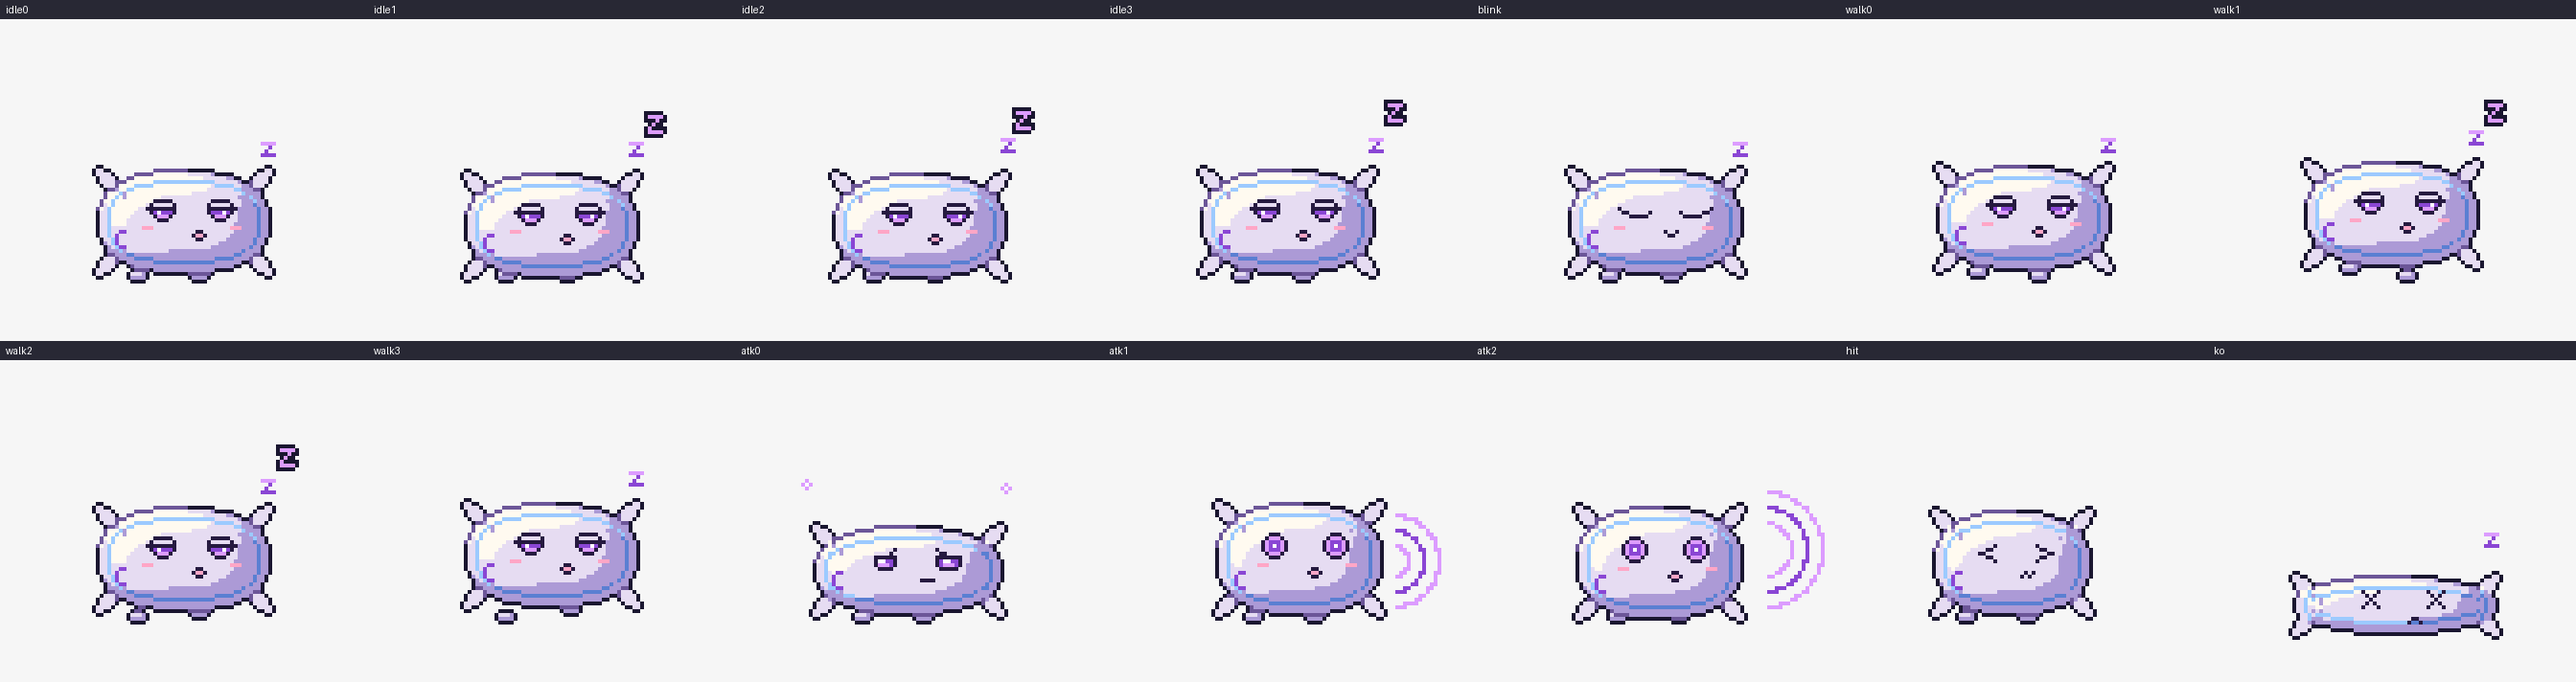
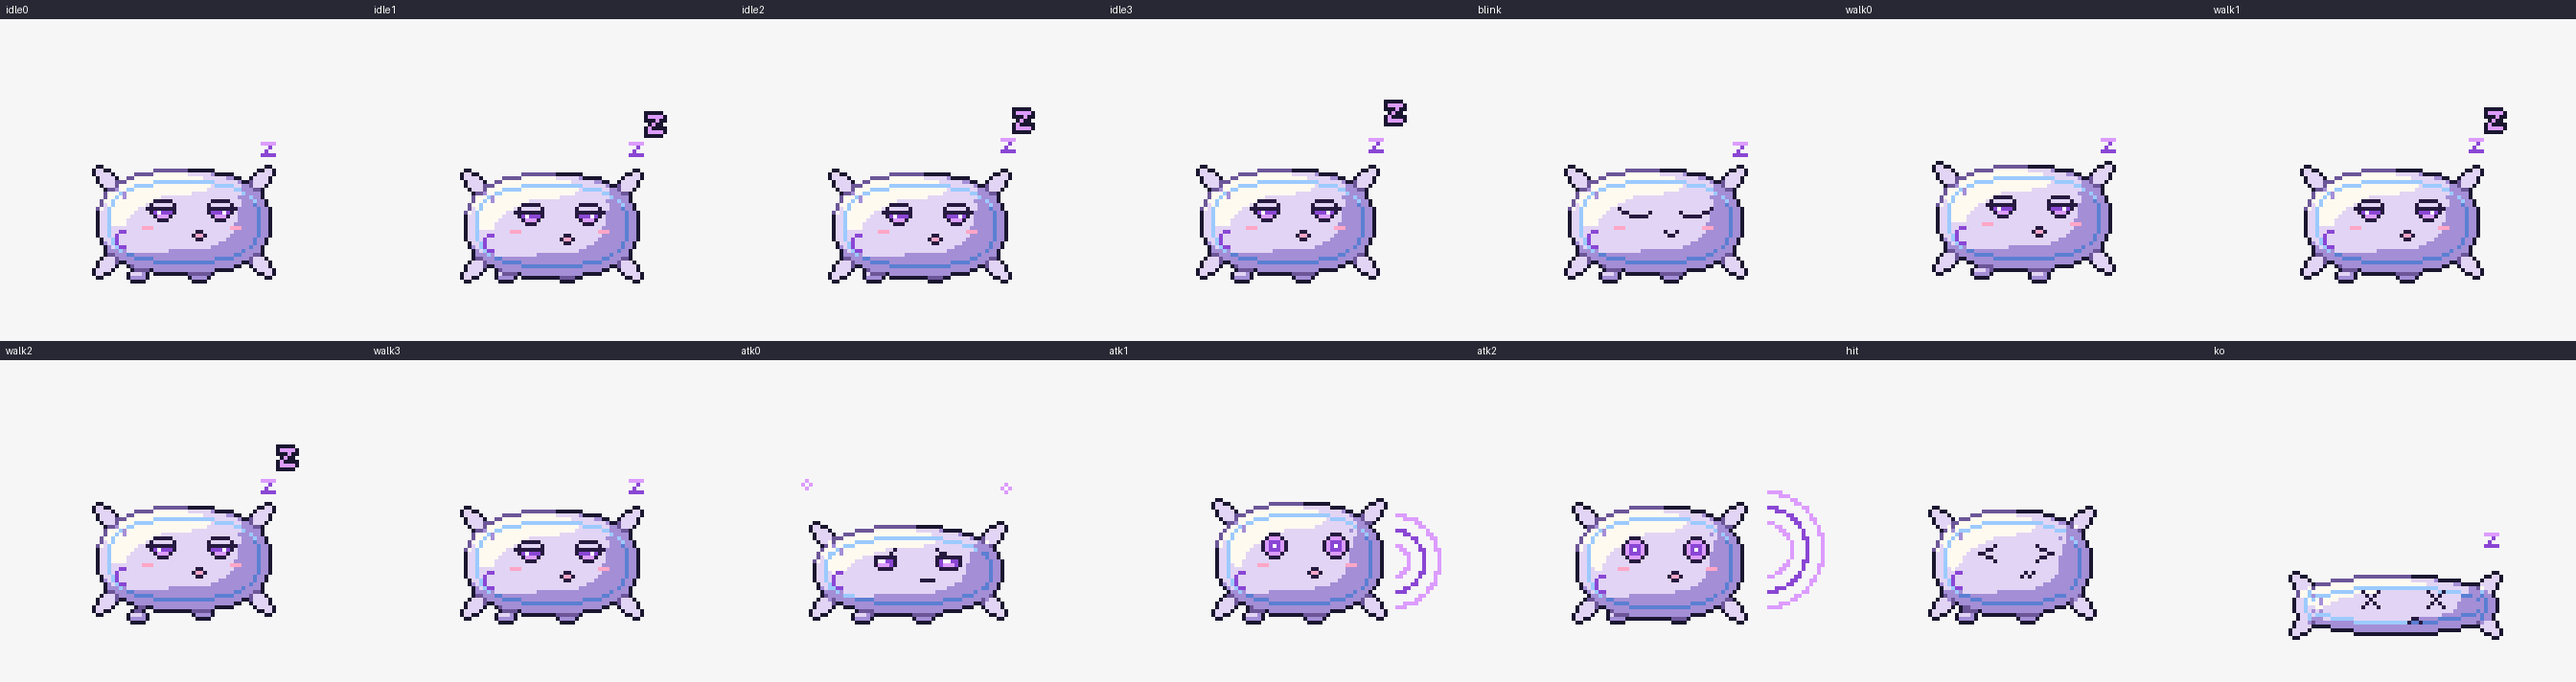
かわいい無機物：ユキダル（雪だるま）・マクラン（まくら）・ツミキン（積み木）
Claude-Session: https://claude.ai/code/session_01J9mYv3PRYW1GKv9GU2f7rQ

Changed region(s): [[0.875, 0.1854, 0.9688, 0.4326], [0.1562, 0.7107, 0.25, 0.927]]

diff --git a/tools/monsters/tsumikin/mon.py b/tools/monsters/tsumikin/mon.py
@@ -1,0 +1,139 @@
+# ツミキン（いわ・フェアリー × 積み木）手打ち GBA風：無機物＋かわいい ライン
+import os, sys
+sys.path.insert(0, os.path.join(os.path.dirname(os.path.abspath(__file__)), '..', '_lib'))
+from pix import grid, rows_of, outline, stamp, poly
+META = dict(id='tsumikin', name='ツミキン', types=['rock', 'fairy'], base='積み木', size='M')
+EYE_BOX = (21, 27, 17, 6)
+PAL = {'k': '#18141e', 'l': '#5a2e3a',
+       'Y': '#fff2c4', 'X': '#eac078', 'Z': '#b07a4c',          # 白木（頭の 立方体）
+       'R': '#ff8e6e', 'S': '#e0443e', 'T': '#9c2448',          # 赤い 積み木（胴）
+       'b': '#82d0ff', 'B': '#3c7ce0', 'N': '#2c3a9c',          # 青い 積み木（足・腕）
+       'g': '#b4f070', 'G': '#4cbc4c', 'H': '#1e7a5c',          # 緑の 三角（屋根）
+       'w': '#ffffff', 'p': '#ff9ad2'}                          # 光・妖精の ピンク
+LIGHT = set('YRbgw')
+KEEP_BLACK = set('wpB')
+
+def put(g, pts, ch):
+    for x, y in pts:
+        if 0 <= y < len(g) and 0 <= x < len(g[0]): g[y][x] = ch
+
+# ---- 立方体（正面＋上面＋右側面）：上面＝明、正面＝中、右側面＝暗。光は 左上 ----
+def box(w, h, d, ramp, front_hl=True):
+    L, M, D = ramp; W, H = w + d, h + d; g = grid(W, H)
+    for j in range(d):                                   # 上面（右上へ 奥行き）
+        for i in range(w):
+            g[j][d - j + i - 1 + 1 - 1 + 0] = L
+    for j in range(h):                                   # 正面
+        for i in range(w): g[d + j][i] = M
+    for i in range(d):                                   # 右側面
+        for j in range(h): g[d - i + j][w + i] = D
+    # 上面の 右端と 側面の 上を つなぐ
+    for j in range(d): g[j][w + d - 1 - j] = L if j == 0 else g[j][w + d - 1 - j]
+    if front_hl:
+        for i in range(w - 1): g[d][i] = L if i < w - 3 else M      # 正面の 上の ふち（光）
+        for j in range(h - 1): g[d + j][0] = L if j < h - 3 else M  # 左の ふち
+    return g
+
+# ---- 頭：白木の 立方体。正面に 描いた 顔 ----
+FACES = {
+    #        奥の 目（左）           手前の 目（右）            口
+    'open':  (['.k.', 'kwk', 'kBk', 'kBk', '.k.'], ['.kk.', 'kwkk', 'kwBk', 'kBBk', '.kk.'], ['k...k', 'kSSSk', '.kkk.']),
+    'blink': (['...', '...', 'k.k', '.k.', '...'], ['....', '....', 'k..k', '.kk.', '....'], ['k...k', '.kkk.']),
+    'fight': (['kk..', '.kkk', 'kwk.', 'kBk.', '.k..'], ['.kkk', 'kkk.', 'kwkk', 'kBBk', '.kk.'], ['.kkk.', 'k...k']),
+    'shout': (['kk..', '.kkk', 'kwk.', 'kBk.', '.k..'], ['.kkk', 'kkk.', 'kwkk', 'kBBk', '.kk.'], ['.kkk.', 'kSSSk', 'kSRSk', '.kkk.']),
+    'pain':  (['k..', '.k.', '..k', '.k.', 'k..'], ['...k', '..k.', '.k..', '..k.', '...k'], ['.k.k.', 'k.k.k']),
+    'ko':    (['...', 'k.k', '.k.', 'k.k', '...'], ['....', 'k..k', '.kk.', 'k..k', '....'], ['kkkkk']),
+}
+def head(kind='open'):
+    g = box(20, 18, 5, 'YXZ')
+    # 木目（正面に 薄い すじ）
+    for x in (3, 4, 5, 6): put(g, [(x, 21)], 'X')
+    for x in range(12, 17): put(g, [(x, 8)], 'X')
+    for j in range(3, 9): put(g, [(22, 5 + j + (j // 3))], 'Z')
+    ef, en, mo = FACES[kind]
+    stamp(g, ef, 4, 10); stamp(g, en, 12, 10); stamp(g, mo, 7, 16)
+    if kind in ('open', 'blink'): put(g, [(2, 15), (3, 15)], 'p'); put(g, [(17, 15), (18, 15)], 'p')
+    return outline(rows_of(g))
+
+# ---- 屋根：緑の 三角柱（正面の 三角＋右へ のびる 斜面）----
+def roof():
+    w, h, d = 20, 10, 5; g = grid(w + d, h + d); a = w // 2
+    poly(g, [(0, d + h), (a, d), (a + d, 0), (d, h)], 'g')          # 左の 斜面（上を 向く＝明）
+    poly(g, [(a, d), (a + d, 0), (w + d, h), (w, d + h)], 'H')      # 右の 斜面（影）
+    poly(g, [(0, d + h), (a, d), (w, d + h)], 'G')                  # 正面の 三角
+    for y in range(h + d):                                          # 右の 斜面の 上の ふちは 空の 光を 受ける
+        for x in range(w + d - 1, -1, -1):
+            if g[y][x] == 'H':
+                if y < h and (y == 0 or g[y - 1][x] == '.'): g[y][x] = 'G'
+                break
+    for y in range(h + d):                                          # 正面の 左の ふちに 光（2ドット）
+        xs = [x for x in range(w + d) if g[y][x] != '.']
+        if xs and g[y][xs[0]] == 'G':
+            g[y][xs[0]] = 'g'
+            if y > d + 3 and g[y][xs[0] + 1] == 'G': g[y][xs[0] + 1] = 'g'
+    return outline(rows_of(g))
+
+# ---- 胴：赤い 直方体。正面に 妖精の 星を ペイント ----
+STAR = ['..w..', '.wpw.', 'wpppw', '.pwp.', 'p...p']
+STAR = ['...p...', '..ppp..', 'ppppppp', '.ppwpp.', '..ppp..', '.pp.pp.', 'p.....p']
+def torso():
+    g = box(18, 11, 4, 'RST')
+    stamp(g, ['..p..', '.ppp.', 'ppwpp', '.ppp.', 'p...p'], 7, 7)
+    return outline(rows_of(g))
+
+# ---- 足・腕：青い 小さな 積み木 ----
+def foot(): return outline(rows_of(box(7, 5, 2, 'bBN')))
+def arm(): return outline(rows_of(box(5, 5, 2, 'bBN')))
+
+# ---- 妖精の きらめき（はなれているのは 意図的）----
+SPK = ['.p.', 'pwp', '.p.']
+SPK2 = ['..p..', '..p..', 'ppwpp', '..p..', '..p..']
+PEB = outline(rows_of(box(5, 5, 2, 'gGH', False)))         # 投げる 小さな 積み木
+PEB2 = outline(rows_of(box(4, 4, 2, 'bBN', False)))
+PEB3 = outline(rows_of(box(4, 4, 2, 'YXZ', False)))
+DUST = outline(['..XX....', '.XYYXX..', 'XYYYYXX.', 'XXYXXXZX', '.XXXZZZ.'])
+TRAIL = ['pppp...', '.......', '..ppppp', '.......', 'ppp....']
+
+def ko_pile():
+    W, H = 70, 34; g = grid(W, H)
+    stamp(g, foot(), 0, 22); stamp(g, foot(), 40, 23); stamp(g, arm(), 58, 22)
+    stamp(g, torso(), 4, 13)                               # 胴は 左に 落ちる
+    stamp(g, roof(), 44, 13)                               # 屋根は 右に ころがる
+    stamp(g, head('ko'), 18, 4)                            # 頭は 胴に よりかかる
+    return [x.rstrip('.') for x in rows_of(g)]
+
+NA = 'ko'
+def layers():
+    return [
+        dict(n='armB', g='armA', x=15, y=42, rows=arm(), not_=NA),
+        dict(n='footB', g='legB', x=31, y=50, rows=foot(), not_=NA),
+        dict(n='footA', g='legA', x=17, y=51, rows=foot(), not_=NA),
+        dict(n='torso', g='body', x=17, y=37, rows=torso(), not_=NA),
+        dict(n='armF', g='armB', x=40, y=42, rows=arm(), not_=NA),
+        dict(n='head', g='head', x=18, y=17, rows=head(), alt={'blink': head('blink'), 'atk0': head('fight'), 'atk1|atk2': head('shout'), 'hit': head('pain')}, not_=NA),
+        dict(n='roof', g='roof', x=18, y=5, rows=roof(), not_=NA),
+        dict(n='spk1', g='fx', x=10, y=12, rows=SPK, alt={'idle2|idle3|walk2|walk3': SPK2}, not_='atk1|atk2|hit|ko'),
+        dict(n='spk2', g='fx2', x=50, y=16, rows=SPK2, alt={'idle2|idle3|walk2|walk3': SPK}, not_='atk1|atk2|hit|ko'),
+        dict(n='trl', g='root', x=47, y=29, rows=TRAIL, only='atk1'),
+        dict(n='peb1', g='root', x=52, y=24, rows=PEB, only='atk1'),
+        dict(n='peb2', g='root', x=58, y=35, rows=PEB2, only='atk1'),
+        dict(n='peb4', g='root', x=50, y=36, rows=PEB3, only='atk1'),
+        dict(n='spkA', g='root', x=63, y=21, rows=SPK2, only='atk1|atk2'),
+        dict(n='dust', g='root', x=62, y=38, rows=DUST, only='atk2'),
+        dict(n='peb3', g='root', x=63, y=28, rows=PEB, only='atk2'),
+        dict(n='peb5', g='root', x=70, y=34, rows=PEB3, only='atk2'),
+        dict(n='spkB', g='root', x=58, y=46, rows=SPK, only='atk2'),
+        dict(n='ko', g='root', x=0, y=29, rows=ko_pile(), only='ko'),
+        dict(n='koS', g='root', x=12, y=28, rows=SPK, only='ko'),
+    ]
+
+FRAMES = {
+    'idle0': {}, 'idle1': {'head': (0, 1), 'fx': (0, -1)}, 'idle2': {'head': (0, 1), 'roof': (0, -1), 'fx2': (0, 1)}, 'idle3': {'roof': (0, 0), 'fx': (0, 1)},
+    'blink': {},
+    'walk0': {'body': (0, -1), 'legA': (1, -2)}, 'walk1': {'body': (0, -1), 'head': (1, 0)},
+    'walk2': {'body': (0, -1), 'legB': (1, -2)}, 'walk3': {'body': (0, -1), 'head': (-1, 0)},
+    'atk0': {'root': (-3, 1), 'head': (-1, 1), 'roof': (-1, 1), 'armB': (-2, -1)},
+    'atk1': {'root': (3, 0), 'head': (2, -1), 'roof': (1, -2), 'armB': (3, -3)}, 'atk2': {'root': (2, 0), 'head': (1, 0), 'roof': (1, -1), 'armB': (2, -1)},
+    'hit': {'root': (-3, 0), 'head': (-2, 0), 'roof': (-2, -2), 'armB': (0, 1)}, 'ko': {},
+}
+PARENT = {'body': 'root', 'armA': 'body', 'armB': 'body', 'head': 'body', 'roof': 'head', 'legA': 'root', 'legB': 'root', 'fx': 'root', 'fx2': 'root'}

diff --git a/tools/monsters/makuran/mon.py b/tools/monsters/makuran/mon.py
@@ -5,7 +5,7 @@ from pix import grid, rows_of, outline, stamp
 META = dict(id='makuran', name='マクラン', types=['normal', 'psychic'], base='まくら', size='M')
 EYE_BOX = (25, 35, 22, 5)
 PAL = {'k': '#1a1630', 'l': '#6c5698',
-       'W': '#fffaf0', 'M': '#e6dcf2', 'D': '#ac9ad6',          # 綿の 布（影は 青紫へ）
+       'W': '#fffaf0', 'M': '#e2d4f4', 'D': '#a48ed6',          # 綿の 布（影は 青紫へ）
        'b': '#9ccaff', 'B': '#5a7fd2',                          # まくらカバーの ふち（パイピング）
        'V': '#dc9cff', 'U': '#8a46d4',                          # ねむけの 念波・ひとみ
        'c': '#261a40', 'w': '#ffffff', 'p': '#ffa6c6'}          # 目の 黒・光・ほっぺ
@@ -119,8 +119,8 @@ def layers():
 FRAMES = {
     'idle0': {}, 'idle1': {'body': (0, 1), 'fx': (0, -1)}, 'idle2': {'body': (0, 1), 'fx': (1, -2), 'fx2': (0, -1)}, 'idle3': {'fx': (1, -1), 'fx2': (1, -2)},
     'blink': {},
-    'walk0': {'body': (0, -1), 'legA': (0, -1)}, 'walk1': {'body': (0, -2), 'legA': (1, -2), 'fx': (0, -1)},
-    'walk2': {'body': (0, -1), 'legB': (0, -1)}, 'walk3': {'body': (0, -2), 'legB': (1, -2), 'fx': (0, -1)},
+    'walk0': {'body': (0, -1), 'legA': (1, -1)}, 'walk1': {'body': (0, 0), 'fx': (0, -1)},
+    'walk2': {'body': (0, -1), 'legB': (1, -1)}, 'walk3': {'body': (0, 0), 'fx': (0, -1)},
     'atk0': {'root': (-3, 0), 'body': (-2, 4)}, 'atk1': {'root': (3, 0), 'body': (1, -2)}, 'atk2': {'root': (2, 0), 'body': (0, -1)},
     'hit': {'root': (-3, 0), 'body': (2, 0)}, 'ko': {},
 }

diff --git a/tools/monsters/tsumikin/SETTEI.md b/tools/monsters/tsumikin/SETTEI.md
@@ -1,0 +1,40 @@
+# ツミキン
+
+| 項目 | 内容 |
+|---|---|
+| タイプ | いわ／フェアリー |
+| もとの もの | 積み木（無機物） |
+| 分類 | つみきモンスター（M、約45×55） |
+| 性格 | 元気で いたずら好き。こわれても すぐ 組みなおして 立ちあがる がんばりや |
+| すみか | 保育園の おもちゃ箱・子ども部屋の 床。夜中に 勝手に 組みあがって 遊んでいる |
+
+## 見た目
+- 色とりどりの 積み木が 組みあがった 体：**緑の 三角の 屋根**（帽子）、**白木の 立方体の 頭**、**赤い 直方体の 胴**、**青い 小さな 立方体の 足と 腕**
+- 積み木らしく 上面＝明・正面＝中・右側面＝暗 の 3面で 立体を 見せる（左上の 光）。白木には うすい 木目
+- 顔は 頭の 正面に **ペンキで 描いた 顔**：たて長の カプセル形の 目（黒・白い 光・青い 塗り）、赤い ペンキの にっこり口、ピンクの ほっぺ
+- 胴の 正面に ピンクの **妖精の 星** の 絵。まわりに ピンクの きらめき（フェアリーの しるし、はなれているのは 意図的）
+
+## 足した もの／引いた もの
+- 足した もの：描いた 顔、星の 絵、短い 腕と 足の 積み木、きらめき
+- 引いた もの：文字や 数字の 絵がら（顔と 星 だけに しぼる）
+
+## まぜた もの と 似ている 点
+- 積み木の 堅木 ⇔ いわ（積み木を 石つぶての ように 投げる、当たると 木くずの 土けむり）
+- 子どもの 遊び・おもちゃ ⇔ フェアリー（ピンクの きらめき）
+
+## 見せ所
+- 原色の 積み木の シルエット（三角・四角）と、ペンキで 描いた にっこり顔。ダウンで ばらばらに くずれる
+
+## 色（16色）
+- 白木 3段・赤 3段・青 3段・緑 3段（どれも 影は 青紫寄りへ 色相を ずらす）・白い 光・妖精の ピンク・輪郭の 黒と 濃い赤茶
+
+## 動き
+- 待機：頭が 1ドット 沈み、屋根が 少し はねる。きらめきが 光ったり 大きく なったり
+- まばたき：描いた 目が 「︶」に
+- 歩く：青い 足の 積み木を 交互に 上げ、頭が 左右に かたかた ゆれる
+- 攻撃：ため＝体を 低く 引き、描いた 目が つり上がって 口は への字 → 決め＝前へ ふみこみ、腕を 前へ。緑・白木・青の 小さな 積み木が ピンクの 軌跡を 引いて 飛ぶ（口を 開けて さけぶ）→ ふりぬき＝積み木が 当たって 木くずの 土けむりと きらめき
+- 被弾：うしろへ よろけ、目は 「> <」、屋根が ぽんと 浮く（浮いているのは 意図的）
+- ダウン：積み木が くずれて ばらばら：胴は 左に 落ち、頭が よりかかり、屋根は 右に ころがる。描いた 目は ×
+
+## ゲーム上の 目安
+- ぼうぎょ 高め・こうげき ふつう。積み木つぶて で 連続攻撃、くずれても 立ちなおる（HP回復）タフな 前衛

diff --git a/tools/monsters/yukidaru/SETTEI.md b/tools/monsters/yukidaru/SETTEI.md
@@ -1,0 +1,39 @@
+# ユキダル
+
+| 項目 | 内容 |
+|---|---|
+| タイプ | こおり／ノーマル |
+| もとの もの | 雪だるま（無機物） |
+| 分類 | ゆきだまモンスター（M、約54×53） |
+| 性格 | のんびりで 子ども好き。けんかに なると まゆを つりあげて 雪玉を びゅんびゅん 投げる |
+| すみか | 雪の 降る 公園・校庭・山の ふもと。冬の 朝に いつのまにか 立っている |
+
+## 見た目
+- 2段の 雪玉の 体。頭に さかさまの **赤い バケツの 帽子**、胴の 横に **木の枝の 腕**（小枝の 指つき）
+- 顔は 頭の 雪玉の 右寄り（3/4 右向き）。**炭の 小石の 目**（黒・左上に 白い 光・右下に 雪の 照り返しの 青灰）、**にんじんの 鼻** が 右へ つき出る、小石を つないだ 「にこっ」の 口、ほっぺに ピンク
+- 胴の ボタンは 炭では なく **氷の かけら**（こおりタイプの しるし）。まわりに 雪の 結晶の きらめきが 浮かぶ
+
+## 足した もの／引いた もの
+- 足した もの：顔の 表情、氷の ボタン、怒ると 出る 小枝の まゆ、雪の 結晶の エフェクト
+- 引いた もの：マフラー・手ぶくろ などの 小物（バケツと 枝と にんじんで 雪だるまと すぐ わかるので しぼった）
+
+## まぜた もの と 似ている 点
+- 雪だるまの 頭 ⇔ 顔（炭の 目・にんじんの 鼻を そのまま 顔の 部品に）
+- 木の枝 ⇔ 腕（攻撃の とき 雪玉を つかんで 投げる）
+
+## 見せ所
+- 赤い バケツと オレンジの にんじんが 白い 体の 上で 目立つ。ふだんは にこにこ、攻撃で きりっと まゆが 立つ
+
+## 色（16色）
+- 雪 3段（白〜水色〜青紫の 影）・赤い バケツ 3段・木の枝 2段・にんじん 1色（影は バケツの 赤と 共有）・炭の 黒・炭の 照り（青灰）・白い 光・ほっぺの ピンク・氷の 水色・輪郭の 黒と 濃い青
+
+## 動き
+- 待機：頭が 1ドット 沈んで 息を する、バケツが 少し はねる、枝の 腕が 上下、雪の 結晶が ふわふわ
+- まばたき：小石の 目が 「︶」に
+- 歩く：足が ないので 左右に よちよち 体を ゆらして ぴょこんと はねる
+- 攻撃：ため＝体を 引いて 枝の 腕を ふりあげ、手に 雪玉。まゆが つり上がる → 決め＝腕を 前へ のばし、氷の 筋を 引いて 雪玉が 飛ぶ（口を 開けて「えいっ」）→ ふりぬき＝雪玉が 当たって 雪と 氷の かけらが はじける
+- 被弾：うしろへ のけぞり、目は「> <」、バケツが 頭から 浮く（浮いているのは 意図的）
+- ダウン：胴が とけかけて つぶれ、頭が 横に ころげ落ちる。にんじんは 下へ たれ、バケツは 地面に。目は ×
+
+## ゲーム上の 目安
+- ぼうぎょ 高め・すばやさ 低め。雪玉で こおり状態や すばやさ ダウンを ねらう 遠距離役

diff --git a/tools/monsters/makuran/SETTEI.md b/tools/monsters/makuran/SETTEI.md
@@ -1,0 +1,40 @@
+# マクラン
+
+| 項目 | 内容 |
+|---|---|
+| タイプ | ノーマル／エスパー |
+| もとの もの | まくら（無機物） |
+| 分類 | ねむりモンスター（M、約48×37） |
+| 性格 | いつも ねむそう で おっとり。じゃまされると 目を ぱっちり 開き、ねむけの 念波で 相手を 眠らせる |
+| すみか | 子ども部屋・旅館の 押し入れ・ふとん干しの ベランダ。夜に なると 枕元へ やってくる |
+
+## 見た目
+- ふかふかに ふくらんだ 白い 綿の まくら。4すみが つままれて 「耳」の ように とがる。カバーの ふちに 水色の **パイピング**
+- 顔は 正面の 右寄り（3/4 右向き）。**ねむそうな 半目**：まるい まぶた（布の 色）が 上半分を おおい、下に 紫の ひとみ（暗い 紫→明るい 紫、白い 光 1点）。手前の 目じりに まつげ。小さな 「o」の 口、大きめの ピンクの ほっぺ
+- 左下に 紫の **三日月の 刺しゅう**（エスパーの しるし）、頭の 上に 紫の 「Z」が 浮かぶ（はなれているのは 意図的）
+- 下に ちょこんと した 布の こぶの 足 2つ
+
+## 足した もの／引いた もの
+- 足した もの：ねむそうな 顔、三日月の 刺しゅう、こぶの 足、Z と 念波の エフェクト
+- 引いた もの：まくらカバーの ボタンや タグ、細かい しわ（すみの しわ 4本 だけ 残す）
+
+## まぜた もの と 似ている 点
+- まくら の 「ねむり」 ⇔ エスパーの 催眠術（ぐるぐるの 目と 念波）
+- まくら投げ ⇔ 体当たり（ため で つぶれて、決めで はずむ）
+
+## 見せ所
+- ふだんの とろんと した 半目と、攻撃で 一変する **うずまき（同心円）の 催眠の 目**
+
+## 色（12色）
+- 綿の 布 3段（あたたかい 白〜うす紫〜青紫の 影）・パイピング 2段（水色・青）・念波の 紫 2段・目の 黒・白い 光・ほっぺの ピンク・輪郭の 黒と 濃い紫
+
+## 動き
+- 待機：体が ふかっと 1ドット 沈む、Z が ゆっくり 上って 2つに ふえる
+- まばたき：半目が 「︶」に 閉じて すやすや顔
+- 歩く：こぶの 足を 交互に ちょこちょこ、体が 1ドット はずむ
+- 攻撃：ため＝体を ぺしゃんこに つぶし（横に 広がる）、まゆが つり上がって きりっと した 目、まわりに 紫の きらめき → 決め＝縦に ふくらんで 前へ はずみ、目が ぐるぐるの 催眠の 目に。紫の 念波（同心の 弧）が 飛ぶ → ふりぬき＝念波が 大きく ひろがる
+- 被弾：細く ちぢんで 横に よろけ、目は 「> <」
+- ダウン：ぺたんこに つぶれて 横たわり、目は ×。Z が 1つ 残る
+
+## ゲーム上の 目安
+- HP・とくぼう 高め、こうげき 低め。念波で ねむり状態を ねらう 妨害役
